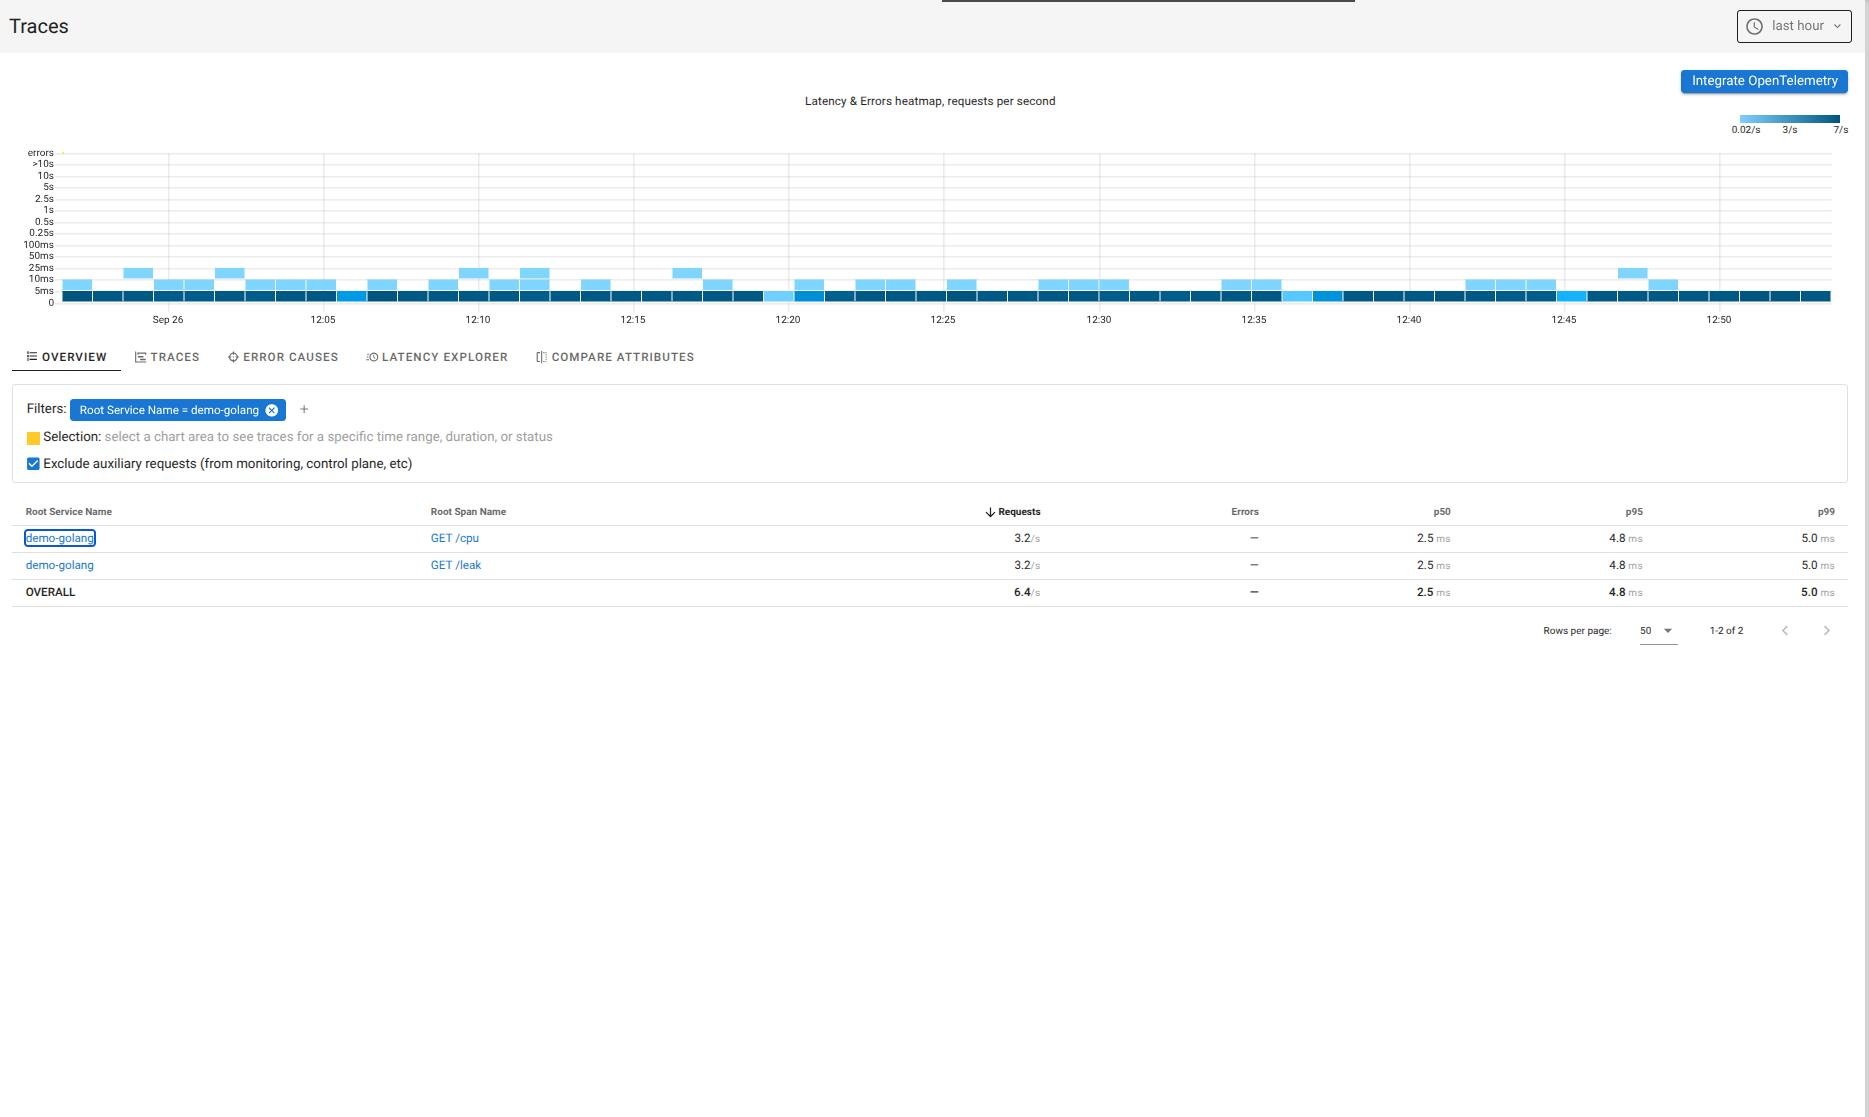
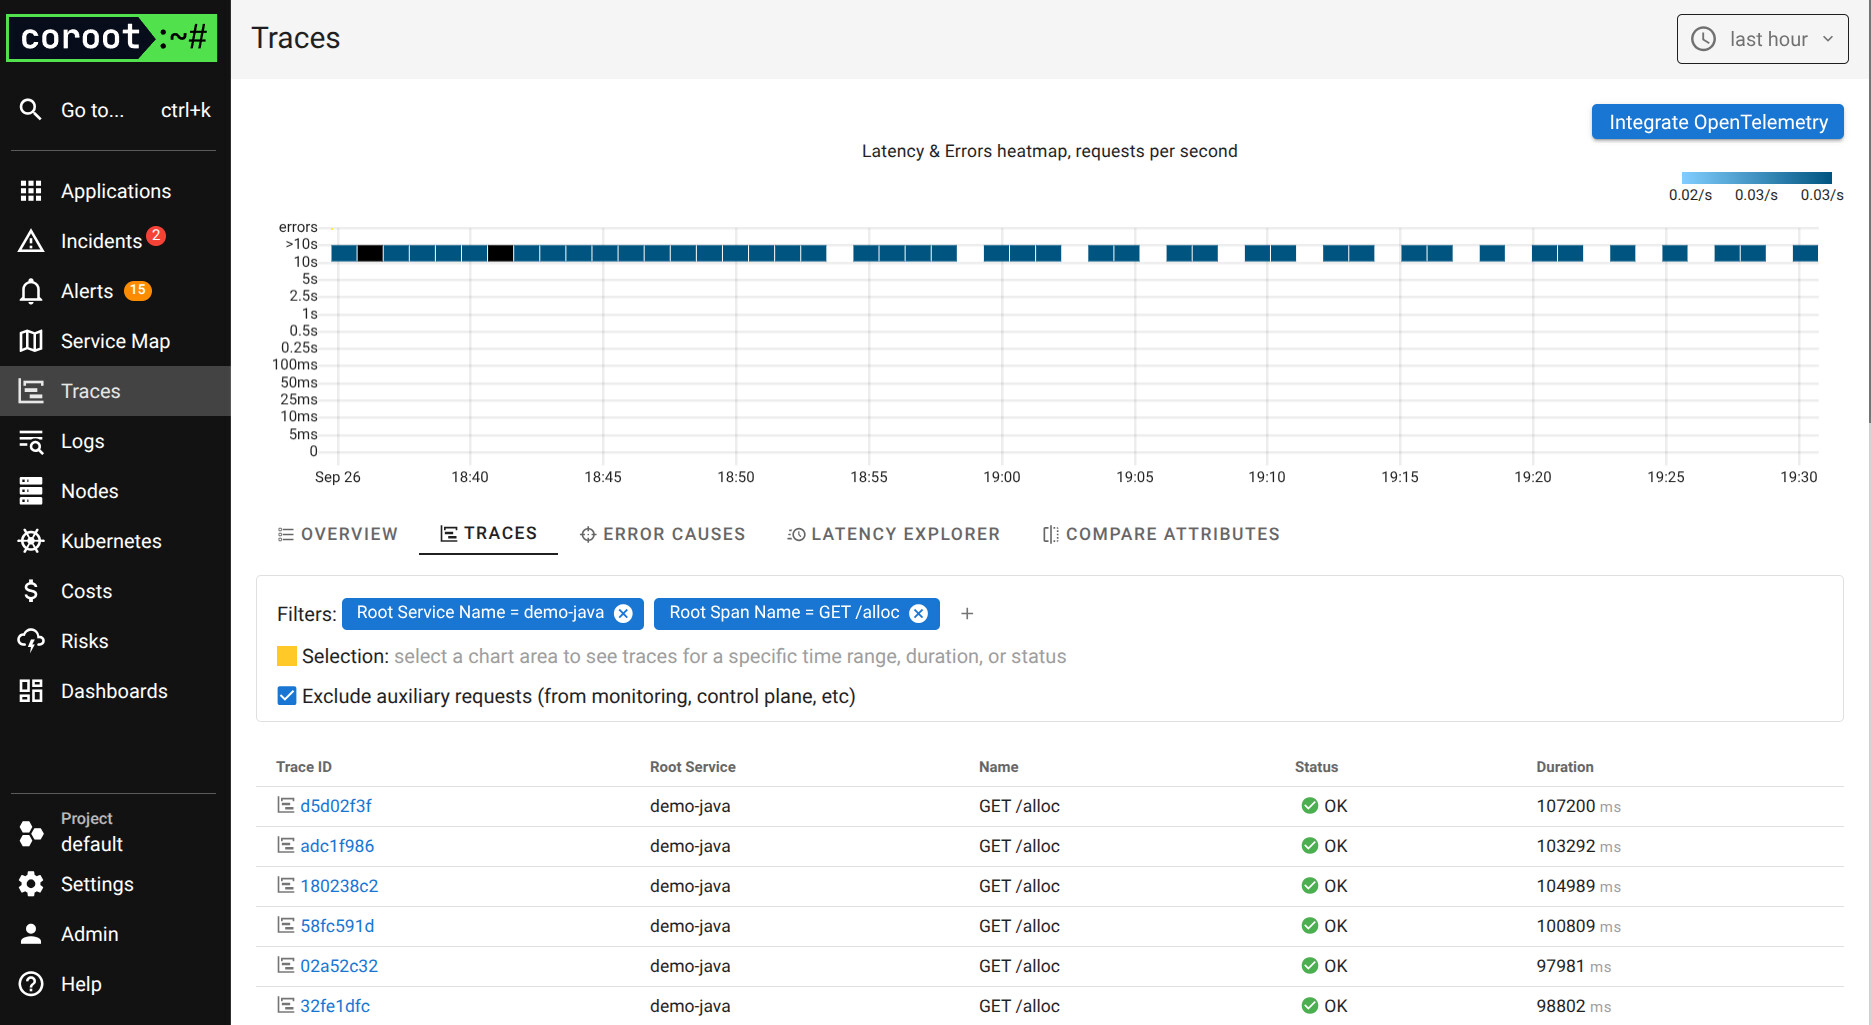
конвертация скриншотов в JPG и обновление README

diff --git a/README.md b/README.md
@@ -224,17 +224,23 @@ helm install otel-collector open-telemetry/opentelemetry-collector \
 
 В разделе трассировок пять вкладок:
 
-![Tracing в Coroot](screenshots/tracing-overview.jpg)
+![OVERVIEW](screenshots/tracing-overview.jpg)
 
-**OVERVIEW (Обзор)** — показывает **HeatMap** — распределение запросов во времени с их статусами и длительностью. По тепловой карте сразу видно аномалии: рост числа запросов, всплески ошибок или запросы, которые стали выполняться дольше обычного. Выделив любую область на графике, можно посмотреть входящие в неё трейсы.
+**OVERVIEW** — показывает **HeatMap** — распределение запросов во времени с их статусами и длительностью. По тепловой карте сразу видно аномалии: рост числа запросов, всплески ошибок или запросы, которые стали выполняться дольше обычного. Выделив любую область на графике, можно посмотреть входящие в неё трейсы.
 
-**TRACES (Трассировки)** — просмотр отдельных трейсов по выделенной области: полный путь запроса по сервисам и базам данных, спаны и их длительности. Это ручная проверка «следов» конкретного запроса.
+![TRACES](screenshots/tracing-demo-golang.jpg)
 
-**ERROR CAUSES (Причины ошибок)** — в отличие от ручного разбора трейсов, Coroot автоматически анализирует **все** затронутые запросы в выделенной области и находит именно те спаны, в которых возникли ошибки. Так за секунды выясняется, одного ли типа все ошибки или происходят разные сбои одновременно.
+**TRACES** — просмотр отдельных трейсов по выделенной области: полный путь запроса по сервисам и базам данных, спаны и их длительности. Это ручная проверка «следов» конкретного запроса.
 
-**LATENCY EXPLORER (Анализ задержек)** — вместо ручного разбора медленных трейсов Coroot анализирует их все и автоматически сравнивает длительность операций с остальными запросами. Задержка визуализируется как latency-флеймграф: чем шире фрейм, тем больше времени занимает спан; в режиме сравнения операции, которые стали дольше, чем раньше, подсвечиваются красным.
+**ERROR CAUSES** — в отличие от ручного разбора трейсов, Coroot автоматически анализирует **все** затронутые запросы в выделенной области и находит именно те спаны, в которых возникли ошибки. Так за секунды выясняется, одного ли типа все ошибки или происходят разные сбои одновременно.
 
-**COMPARE ATTRIBUTES (Сравнение атрибутов)** — сравнение атрибутов трасс внутри выделенной области с остальными запросами. Полезно, когда система ведёт себя иначе при обработке запросов с конкретными входными данными — например, от определённого клиента, браузера или с включённым feature flag. Coroot сам выявляет, какой атрибут отличает «аномальные» запросы, причём без какой-либо настройки — работает с любыми пользовательскими атрибутами.
+![LATENCY EXPLORER](screenshots/latency-explorer.jpg)
+
+**LATENCY EXPLORER** — вместо ручного разбора медленных трейсов Coroot анализирует их все и автоматически сравнивает длительность операций с остальными запросами. Задержка визуализируется как latency-флеймграф: чем шире фрейм, тем больше времени занимает спан; в режиме сравнения операции, которые стали дольше, чем раньше, подсвечиваются красным.
+
+![COMPARE ATTRIBUTES](screenshots/compare-attributes.jpg)
+
+**COMPARE ATTRIBUTES** — сравнение атрибутов трасс внутри выделенной области с остальными запросами. Полезно, когда система ведёт себя иначе при обработке запросов с конкретными входными данными — например, от определённого клиента, браузера или с включённым feature flag. Coroot сам выявляет, какой атрибут отличает «аномальные» запросы, причём без какой-либо настройки — работает с любыми пользовательскими атрибутами.
 
 ## Часть 2. Четыре «сломанных» приложения
 
@@ -307,7 +313,7 @@ nuxt:
 
 ![Флеймграф CPU demo-nuxt](screenshots/nuxt-profiling.jpg)
 
-Алерты наружу — **Project Settings → Integrations**: Slack, Microsoft Teams, PagerDuty, Opsgenie, webhook. Маршрутизация по [категориям приложений](https://docs.coroot.com/configuration/application-categories#notification-routing) и типам событий: **Incidents**, **Deployments**, **Alerts**. Источники алертов: инспекции, новые паттерны в логах, Kubernetes-события, кастомный PromQL. Для этого демо хватит инспекции по CPU — без правил вручную.
+Алерты наружу — **Project Settings → Integrations**: Slack, Microsoft Teams, PagerDuty, Opsgenie, webhook. Маршрутизация по [категориям приложений](https://docs.coroot.com/configuration/application-categories#notification-routing) и типам событий: **Incidents**, **Deployments**, **Alerts**. Источники алертов: инспекции, новые паттерны в логах, Kubernetes-события, кастомный PromQL.
 
 ### Шаг 2. Python
 
@@ -369,7 +375,7 @@ Go-приложение с тремя проблемами сразу:
 - **утечка горутин** — эндпоинт `/leak` запускает горутину, которая блокируется навсегда
 - **CPU-нагрузка** — эндпоинт `/cpu` с бесполезным циклом на 5 млн итераций
 
-Для Go Coroot использует **два комплементарных механизма**: автоматический heap-профилинг через `coroot-node-agent` (читает `runtime.MemProfile` из `/proc/<pid>/mem`, без изменений в коде; управляется флагом `--go-heap-profiler` = `disabled`/`enabled`/`force`) и pprof-скрейп через `coroot-cluster-agent`. Чтобы включить pprof-скрейп (CPU/blocking/mutex), нужно экспортировать `/debug/pprof` и аннотировать под — в чарте это уже сделано через `golang.podAnnotations` в [chart/values.yaml](chart/values.yaml).
+Для Go Coroot использует **два комплементарных механизма**: автоматический heap-профилинг через `coroot-node-agent` (читает `runtime.MemProfile` из `/proc/<pid>/mem`, без изменений в коде; управляется флагом `--go-heap-profiler` = `disabled`/`enabled`/`force`) и pprof-скрейп через `coroot-cluster-agent`. Чтобы включить pprof-скрейп (CPU/blocking/mutex), нужно экспортировать `/debug/pprof` и аннотировать под.
 
 Файл `chart/values.yaml` (фрагмент):
 
